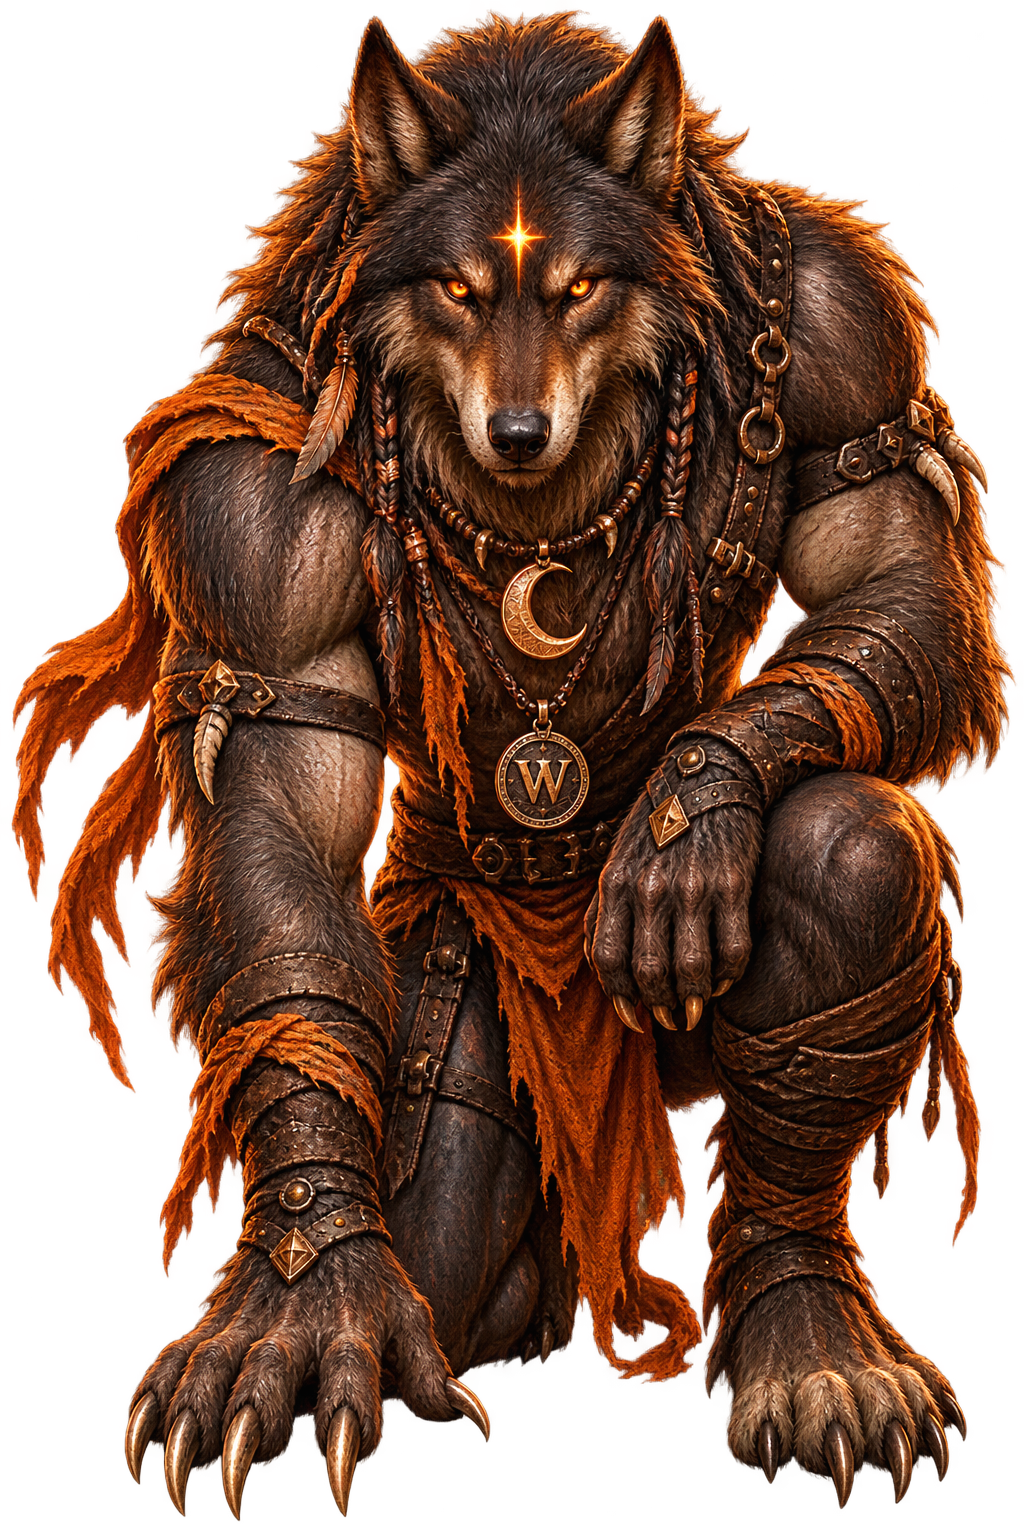
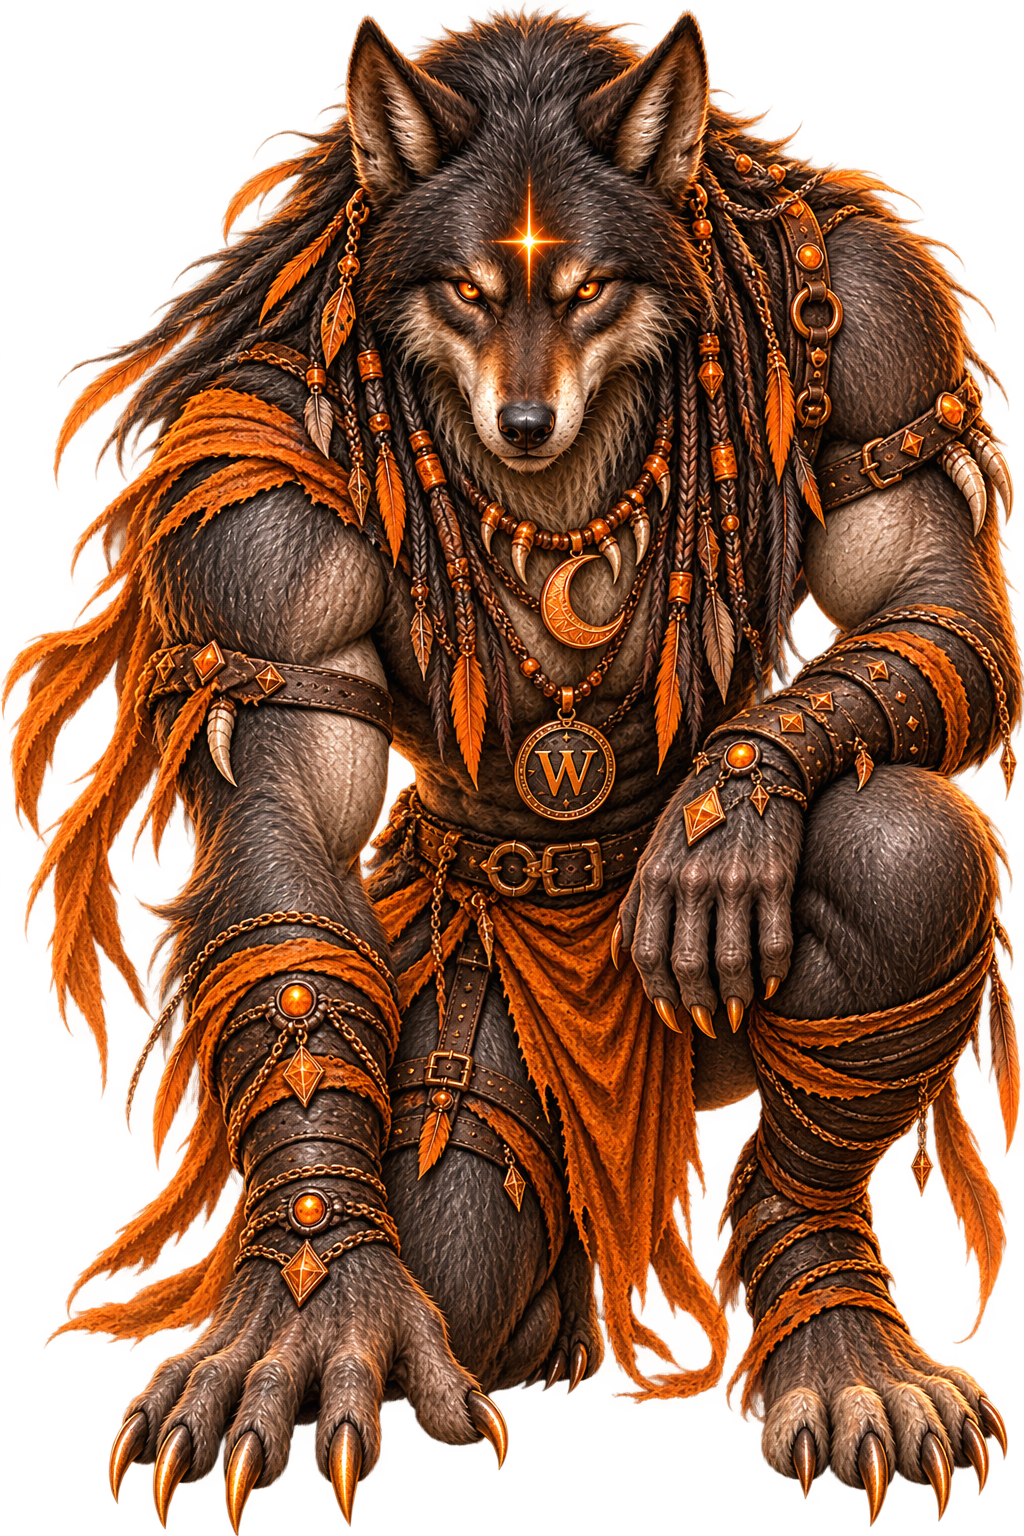
Marca: novos retratos de Lumni e Luna em 1024px, v1.58.5.
Atualiza os PNGs de linhagem e regenera WebP q95; o manifesto alimenta landing, login, criacao, ficha, ranking e arena.

diff --git a/src/shared/constants/version.ts b/src/shared/constants/version.ts
@@ -1,3 +1,3 @@
-export const GAME_VERSION = "1.58.4";
+export const GAME_VERSION = "1.58.5";
 
 export const VERSION_POLL_MS = 60000;
